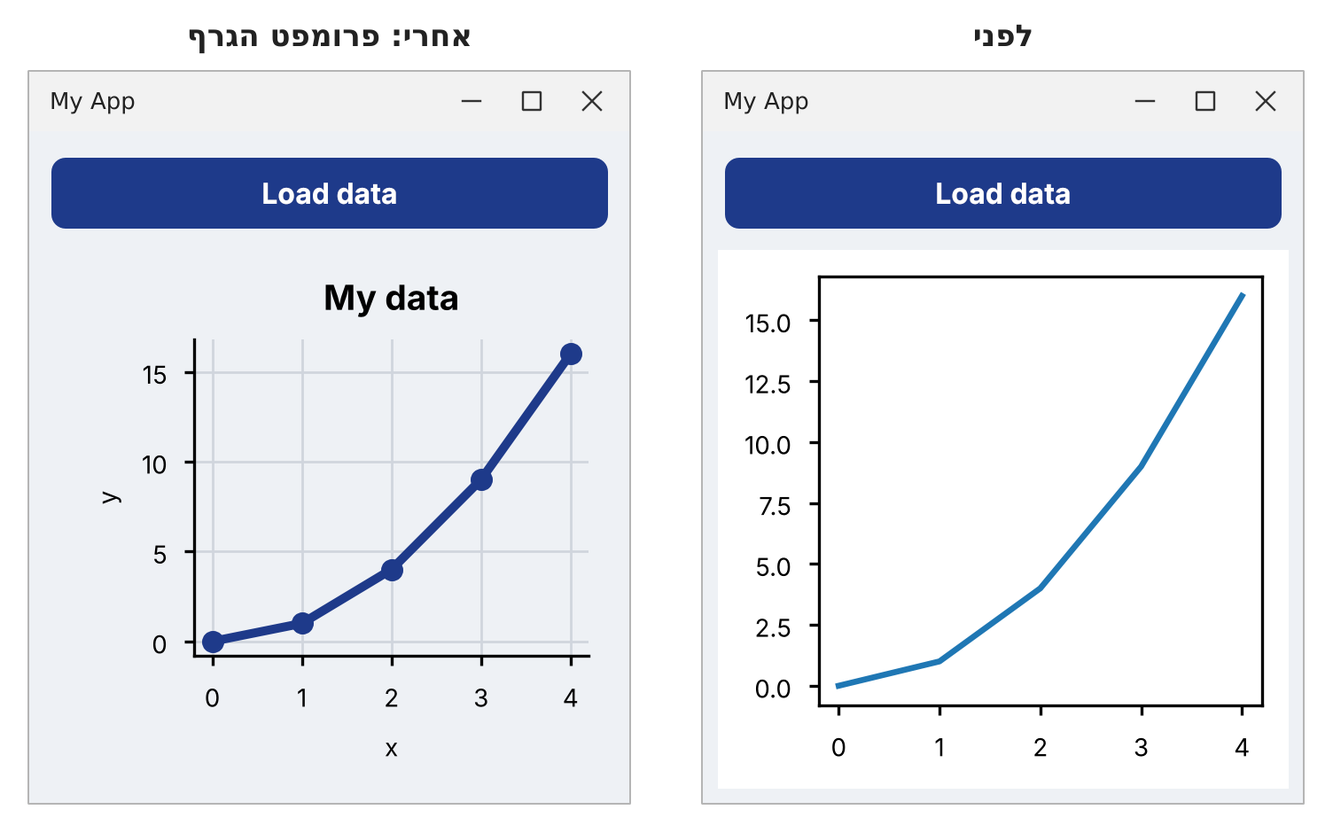
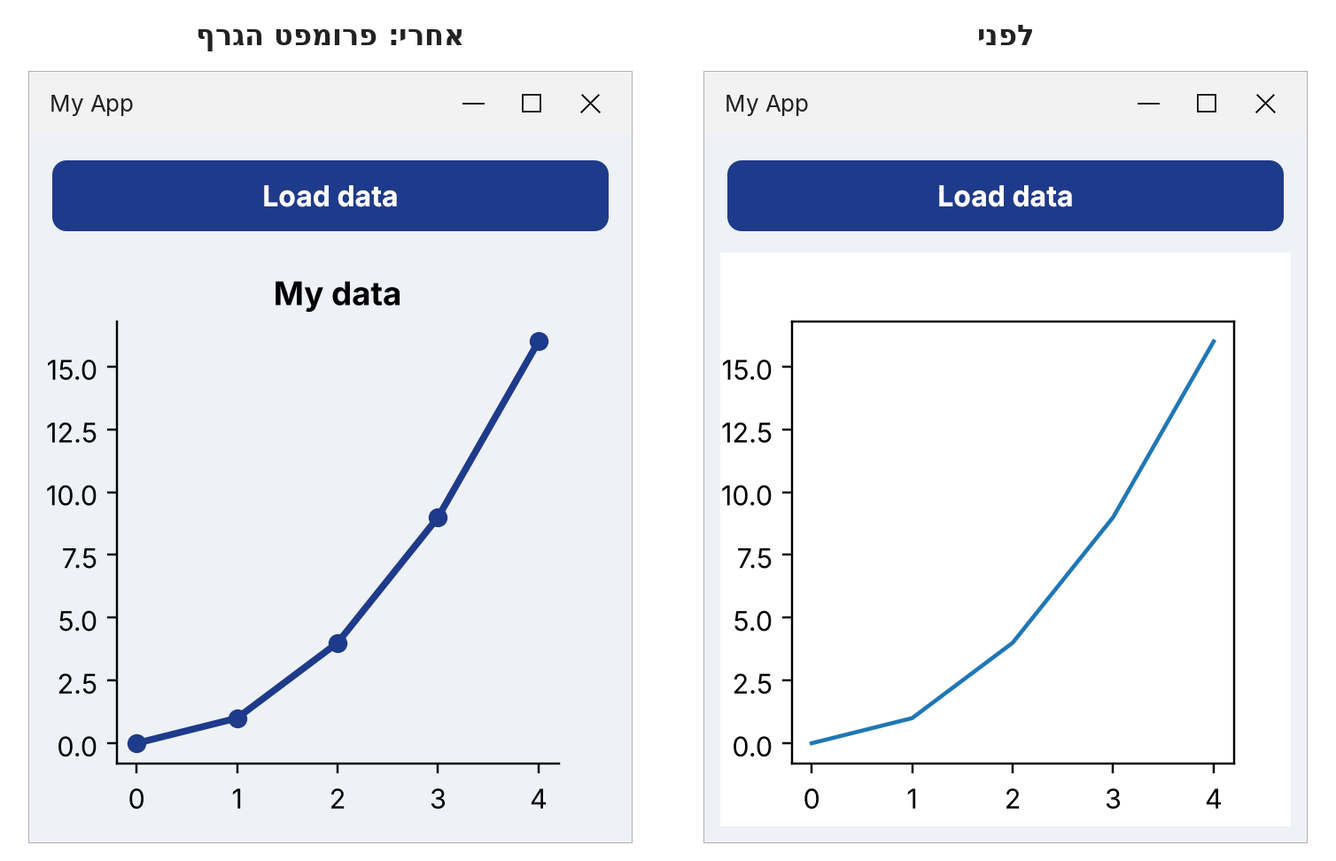
Starter GUI prompts: match code and screenshots to Tal's new prompts, sync Hebrew
- Graph prompt: new before/after screenshots without the grid (EN + HE)
- Layout/zoom/save prompt: new code (constrained layout, toolbar on the
  graph's top right) and new before/after screenshots (EN + HE)
- Remove the follow-up section's unused images
- Hebrew version updated to match the English text

Claude-Session: https://claude.ai/code/session_01TSvAdkGXUG1LZxQcRJdy9t

diff --git a/content/he/topics/good_prompts.md b/content/he/topics/good_prompts.md
@@ -33,22 +33,7 @@
 >
 > הוסף גם אזור בגודל 300 על 300 פיקסלים לפחות עם גרף matplotlib. צור מתודה בשם `draw_graph` שמציירת משהו פשוט על הגרף. אני אשנה אותה אחר כך.
 
-הפרומפט הזה לא מתאר אפליקציה גמורה. הוא מתאר **שלד**, שבנוי כמו ש*אתם* הייתם בונים אותו, עם כלים ש*אתם* כבר מכירים.
-
-## עוברים על הפרומפט
-
-כל משפט בפרומפט מקבל החלטה אחת, כדי שה-AI לא יצטרך לנחש.
-
-| מה הפרומפט אומר | מה זה נותן לכם |
-|---|---|
-| ״אפליקציית PySide6״ | ספרייה שלמדתם בכיתה. אתם יכולים לקרוא כל שורה. |
-| ״בקובץ חדש בשם `app.py`״ | אתם יודעים בדיוק איפה הקוד נמצא, והוא לא נוגע בקבצים האחרים שלכם. |
-| ״חלון ראשי, כתוב כמחלקה״ | המבנה שאנחנו משתמשים בו בקורס: ווידג'טים הם תכונות (`self.something`), ופעולות הן מתודות. |
-| ״קרא לכפתור `file_load_button`״ | כשתרצו לשנות את הכפתור, תחפשו את השם הזה. |
-| ״חבר אותו למתודה בשם `file_load_method`״ | אתם יודעים איפה נמצא הקוד שרץ בלחיצה. |
-| ״שמור את הבחירה ב-`self.filename`״ | כל מתודה אחרת במחלקה יכולה להשתמש בשם הקובץ אחר כך. |
-| ״300 על 300 פיקסלים לפחות עם גרף matplotlib״ | ספרייה שאתם מכירים, וגודל שאתם בחרתם. |
-| ״מתודה בשם `draw_graph`... אני אשנה אותה אחר כך״ | מקום ברור וריק לקוד הגרפים שלכם. ״אני אשנה אחר כך״ אומר ל-AI לשמור על פשטות. |
+הפרומפט הזה לא מתאר אפליקציה גמורה. הוא מתאר **שלד**, שבנוי כמו ש*אתם* הייתם בונים אותו, עם כלים ש*אתם* כבר מכירים. כל משפט בפרומפט מקבל החלטה, כדי שה-AI לא יצטרך לנחש.
 
 ## מה מקבלים בחזרה
 
@@ -125,20 +110,12 @@ if __name__ == "__main__":
 
 שימו לב שאפשר לכתוב פרומפט כזה רק אם כבר מכירים את הכלים. בגלל זה אנחנו לומדים קודם PySide6, matplotlib ומחלקות, ומשתמשים ב-AI כדי לחסוך הקלדה, לא מחשבה.
 
-## ה-AI בונה את הממשק, אתם כותבים את הלוגיקה
+## אחרי שה-AI עונה
 
-השתמשו בפרומפטים כאלה **לממשק המשתמש בלבד**: החלון, הווידג'טים, הסידור שלהם והחיבורים ביניהם. החלק הזה הוא בעיקר הקלדה, וה-AI מהיר בה.
-
-**הלוגיקה** שלכם: חישובים, קריאה וכתיבה של קבצים, עיבוד נתונים, הפיזיקה של סימולציה. בפרומפט התחלתי טוב, כל חלק של לוגיקה הופך ל**מתודה ריקה עם שם שאתם בחרתם**, שמחכה לקוד שלכם. זה בדיוק מה ש״אני אשנה אותה אחר כך״ עושה בפרומפט שלמעלה.
-
-## מה לכתוב בפרומפט התחלתי
-
-1. **הטכנולוגיות:** ספריית הממשק הגרפי וספריית הגרפים (PySide6, matplotlib).
-2. **הקובץ:** איזה קובץ ליצור.
-3. **המבנה:** חלון כמחלקה, איזה layout, מה נמצא איפה.
-4. **השמות:** של הווידג'טים, המתודות והמשתנים החשובים.
-5. **החיבורים:** איזה כפתור או signal קורא לאיזו מתודה.
-6. **המתודות הריקות:** כתבו אילו מתודות להשאיר ריקות (או עם `print`), כי את הלוגיקה תכתבו בעצמכם.
+1. **קראו את כל הקוד** לפני שאתם מריצים אותו. אם שורה לא ברורה, בקשו מה-AI להסביר אותה.
+2. **בדקו שהוא עשה מה שביקשתם:** שם הקובץ, השמות, המבנה. אם הוא הוסיף דברים שלא ביקשתם, בקשו ממנו להוריד אותם.
+3. **הריצו** וודאו שהשלד עובד.
+4. **בצעו commit** ב-git. עכשיו יש לכם נקודת התחלה נקייה לחזור אליה, ואפשר להתחיל להוסיף את הקוד שלכם.
 
 ## עוד דוגמאות לפרומפטים
 
@@ -167,13 +144,6 @@ if __name__ == "__main__":
 > Create a PySide6 app in a new file called `animation.py`, with a main window written as a class. Add a matplotlib graph of at least 400 by 400 pixels, and two buttons in a row under it: "Start" named `start_button` and "Stop" named `stop_button`. Create a `QTimer` named `timer` that calls a method called `step` every 50 milliseconds. `start_button` starts the timer and `stop_button` stops it. Leave `step` empty, I will write the movement myself.
 
 גרף, כפתורי ״Start״ ו-״Stop״, וטיימר שקורא ל-`step` כל 50 מילישניות. `step` נשארת ריקה, ואת התנועה אתם כותבים.
-
-## אחרי שה-AI עונה
-
-1. **קראו את כל הקוד** לפני שאתם מריצים אותו. אם שורה לא ברורה, בקשו מה-AI להסביר אותה.
-2. **בדקו שהוא עשה מה שביקשתם:** שם הקובץ, השמות, המבנה. אם הוא הוסיף דברים שלא ביקשתם, בקשו ממנו להוריד אותם.
-3. **הריצו** וודאו שהשלד עובד.
-4. **בצעו commit** ב-git. עכשיו יש לכם נקודת התחלה נקייה לחזור אליה, ואפשר להתחיל להוסיף את הקוד שלכם.
 
 ## השלב הבא: פרומפט לעיצוב
 
@@ -220,19 +190,19 @@ QPushButton:hover {
 }
 ```
 
-עכשיו תורכם: **פתחו את `style.qss` ושחקו איתו.** שנו צבע, עגלו יותר את הפינות, הגדילו את הגופן, הריצו שוב את האפליקציה וראו מה השתנה. הקובץ קצר וקל לקריאה, אז לא צריך עוד פרומפט על כל שינוי קטן. ה-AI נתן לכם נקודת התחלה, והמראה הסופי צריך להיות שלכם. טיפ: חפשו ״hex color picker״ כדי למצוא את הקוד של כל צבע שאתם אוהבים.
+עכשיו תורכם: **פתחו את `style.qss` ושחקו איתו.** שנו צבע, עגלו יותר את הפינות, הגדילו את הגופן, הריצו שוב את האפליקציה וראו מה השתנה. הקובץ קצר וקל לקריאה, אז לא צריך עוד פרומפט על כל שינוי קטן. ה-AI נתן לכם נקודת התחלה, והמראה הסופי צריך להיות שלכם.
 
-עוד דברים שאפשר לבקש: ערכת נושא כהה, גופן מסוים, צבע בולט לכפתור חשוב אחד (תנו לו שם עם `setObjectName` ועצבו אותו עם `#name`), או מסגרת סביב אזור הגרף.
+עוד דברים שאפשר לבקש: ערכת נושא כהה, גופן מסוים, צבע בולט לכפתור חשוב אחד, או מסגרת סביב אזור הגרף.
 
 ״אל תשנה שום דבר אחר בקוד ה-Python״ זה משפט חשוב. בדקו ב-git שה-AI עמד בזה: השינויים צריכים להיות הקובץ החדש `style.qss`, השורה או שתיים שטוענות אותו, ואולי כמה קריאות ל-`setObjectName`. אם התוצאה לא מוצאת חן בעיניכם, בטלו את השינויים ונסו פרומפט אחר. אם היא מוצאת חן, בצעו commit.
 
 ### לגרום לגרף להיראות טוב
 
-קובץ ה-QSS מעצב את החלון, אבל לא את הגרף: את הגרף matplotlib מצייר בעצמו. לכן הגרף מקבל פרומפט משלו. כאן לא צריך את המילים הטכניות. תארו במילים פשוטות מה אתם רוצים לראות:
+קובץ ה-QSS מעצב את החלון, אבל לא את הגרף: את הגרף matplotlib מצייר בעצמו. לכן הגרף מקבל פרומפט משלו. כאן לא צריך את המילים הטכניות. תארו במילים פשוטות מה אתם רוצים לראות. למשל:
 
-> Make the graph in `draw_graph` look nicer. Remove the lines on the top and right sides of the graph, add a title and a name for each axis, add a light grid in the background, make the line thicker and dark blue with a dot on every point, and make the background of the graph the same light gray as the window. Only change `draw_graph`.
+> Make the graph in `draw_graph` look nicer. Remove the lines on the top and right sides of the graph, add a title and a name for each axis, make the line thicker and dark blue with a dot on every point, and make the background of the graph the same light gray as the window. Keep the grid off. Only change `draw_graph`.
 
-(״תגרום לגרף ב-`draw_graph` להיראות יותר טוב. תוריד את הקווים בצד העליון והימני של הגרף, תוסיף כותרת ושם לכל ציר, תוסיף רשת בהירה ברקע, תעשה את הקו עבה יותר וכחול כהה עם נקודה על כל נקודת נתונים, ותעשה את הרקע של הגרף באותו אפור בהיר כמו החלון. תשנה רק את `draw_graph`.״)
+(״תגרום לגרף ב-`draw_graph` להיראות יותר טוב. תוריד את הקווים בצד העליון והימני של הגרף, תוסיף כותרת ושם לכל ציר, תעשה את הקו עבה יותר וכחול כהה עם נקודה על כל נקודת נתונים, ותעשה את הרקע של הגרף באותו אפור בהיר כמו החלון. תשאיר את הרשת כבויה. תשנה רק את `draw_graph`.״)
 
 ![החלון המעוצב לפני פרומפט הגרף, ואחריו](content/images/prompt_graph_before_after_he.png)
 
@@ -245,7 +215,6 @@ def draw_graph(self):
     self.ax.set_facecolor("#eef1f5")
     self.ax.spines["top"].set_visible(False)
     self.ax.spines["right"].set_visible(False)
-    self.ax.grid(True, color="#d0d5dd")
     self.ax.set_axisbelow(True)
     self.ax.plot([0, 1, 2, 3, 4], [0, 1, 4, 9, 16],
                  color="#1e3a8a", linewidth=2.5, marker="o")
@@ -255,21 +224,23 @@ def draw_graph(self):
     self.canvas.draw()
 ```
 
-עכשיו קראו את הקוד. ״הקווים בצד העליון והימני״ נקראים ב-matplotlib **spines**, ועכשיו למדתם איך להסתיר אותם. בפעם הבאה תוכלו לעשות את זה לבד, בלי פרומפט. כשתחליפו את נתוני הדוגמה בנתונים שלכם, השאירו את שורות העיצוב ושנו רק את שורת ה-`plot` ואת הכותרות.
+עכשיו קראו את הקוד. יש דברים שקל מאוד לעשות ברגע שיודעים איך. עכשיו אתם יכולים לשנות את הערכים בעצמכם כדי לקבל את המראה שאתם רוצים.
 
 ### זום ושמירה של הגרף
 
-עכשיו נאפשר למשתמש לעשות זום ולשמור את הגרף כתמונה. ל-matplotlib כבר יש סרגל כלים (toolbar) שעושה את זה, אז בקשו אותו בשמו, ובקשו שיעוצב כמו שאר האפליקציה:
+אזור הגרף עדיין לא נראה כל כך טוב, כי הגרף לא מנצל נכון את המקום שמסביבו. בנוסף, אנחנו רוצים להוסיף אפשרות לזום ולשמירת הגרף כתמונה. נכתוב לזה פרומפט המשך.
 
-> Add a small toolbar above the graph with only two buttons: one to zoom in and one to save the graph as an image. Use matplotlib's ready-made toolbar, but keep only those two buttons and hide the mouse coordinates. Style it to match the rest of the app by adding rules to `style.qss`: the same background as the window, white rounded buttons, and a light blue background when the mouse is over a button or when a button is on. Don't change `draw_graph`.
+> Make the graph occupy the entire width of the window but ensure that the y axis title is fully visible, and go up until it is almost at the "Load Data" button. Add an option for zooming and for saving the graph as an image, with only two buttons and place them so they line up with the main title, on the right side of the graph. Style it to match the rest of the app using `style.qss`. Don't change `draw_graph`.
 
-(״הוסף סרגל כלים קטן מעל הגרף עם שני כפתורים בלבד: אחד לזום ואחד לשמירת הגרף כתמונה. השתמש בסרגל הכלים המוכן של matplotlib, אבל השאר רק את שני הכפתורים האלה והסתר את הקואורדינטות של העכבר. עצב אותו כך שיתאים לשאר האפליקציה בעזרת כללים חדשים ב-`style.qss`: אותו רקע כמו החלון, כפתורים לבנים ומעוגלים, ורקע תכלת כשהעכבר מעל כפתור או כשכפתור פעיל. אל תשנה את `draw_graph`.״)
+(״תגרום לגרף לתפוס את כל רוחב החלון, אבל תוודא שהשם של ציר ה-y נראה במלואו, ותעלה אותו עד שהוא כמעט מגיע לכפתור ״Load Data״. תוסיף אפשרות לזום ולשמירת הגרף כתמונה, עם שני כפתורים בלבד, ותמקם אותם כך שיהיו בשורה אחת עם הכותרת הראשית, בצד הימני של הגרף. תעצב אותם כך שיתאימו לשאר האפליקציה בעזרת `style.qss`. אל תשנה את `draw_graph`.״)
 
-![האפליקציה לפני פרומפט סרגל הכלים, ואחריו](content/images/prompt_toolbar_before_after_he.png)
+![האפליקציה לפני הפרומפט, ואחריו](content/images/prompt_toolbar_before_after_he.png)
 
-השינוי ב-Python קטן: מחלקה קטנה מעל `MainWindow` שמשאירה רק שניים מהכפתורים של סרגל הכלים, ושתי שורות ב-`__init__` שיוצרות את סרגל הכלים ומכניסות אותו ל-layout:
+השינוי ב-Python קטן. מחלקה קטנה מעל `MainWindow` משאירה רק שניים מהכפתורים של סרגל הכלים (toolbar):
 
 ```python
+from PySide6.QtCore import Qt
+from PySide6.QtWidgets import QGridLayout
 from matplotlib.backends.backend_qtagg import NavigationToolbar2QT
 
 
@@ -278,10 +249,22 @@ class GraphToolbar(NavigationToolbar2QT):
     toolitems = [t for t in NavigationToolbar2QT.toolitems if t[0] in ("Zoom", "Save")]
 ```
 
+ובנוסף משתנות כמה שורות ב-`__init__`. הגרף מסדר את עצמו כך שימלא את השטח שלו, וסרגל הכלים יושב מעל הגרף, בפינה הימנית העליונה שלו:
+
+```python
+        self.figure = Figure(layout="constrained")    # was: Figure()
+```
+
 ```python
         self.toolbar = GraphToolbar(self.canvas, self, coordinates=False)
-        layout.addWidget(self.toolbar)    # just before layout.addWidget(self.canvas)
+        graph_area = QGridLayout()
+        graph_area.addWidget(self.canvas, 0, 0)
+        graph_area.addWidget(self.toolbar, 0, 0, Qt.AlignTop | Qt.AlignRight)
+        layout.addLayout(graph_area)    # was: layout.addWidget(self.canvas)
+        layout.setSpacing(0)            # less space between the button and the graph
 ```
+
+`layout="constrained"` אומר ל-matplotlib להגדיל את הגרף כמה שאפשר, ועדיין להשאיר מקום לכותרת ולשמות הצירים. כשמכניסים את ה-canvas ואת סרגל הכלים לאותו תא ב-`QGridLayout`, אחד מהם יושב מעל השני.
 
 מה עושים שני הכפתורים:
 
@@ -289,29 +272,3 @@ class GraphToolbar(NavigationToolbar2QT):
 - **Save** (הדיסקט): שומר את הגרף כקובץ PNG, JPG, PDF או SVG.
 
 לסרגל הכלים של matplotlib יש עוד כפתורים: Home (חזרה לתצוגה המלאה), Back, Forward, Pan (הזזת הגרף) ועוד כמה הגדרות. רוצים גם אחד מהם? הוסיפו את השם שלו לרשימה ב-`GraphToolbar`, למשל `("Home", "Zoom", "Save")`. רוצים לשנות את המראה? שנו את הצבעים ב-`style.qss`, בדיוק כמו קודם.
-
-### פרומפט המשך: לתקן את מה שלא מוצא חן
-
-הסתכלו על התוצאה בעין ביקורתית. אחרי שהוספנו את סרגל הכלים, יש לגרף יותר מדי מקום ריק משמאל ומעליו, והכפתורים ייראו טוב יותר בצד ימין. לא צריך להתחיל מההתחלה, ולא צריך לדעת את המילים הנכונות. פשוט תגידו מה מפריע לכם:
-
-> There is too much empty space between the graph and the left side of the window, and a bit too much above the title. Make the graph fill more of its area. Also, move the zoom and save buttons to the right side, aligned to the right.
-
-(״יש יותר מדי מקום ריק בין הגרף לצד השמאלי של החלון, וקצת יותר מדי מעל הכותרת. תגרום לגרף למלא יותר מהשטח שלו. בנוסף, תעביר את כפתורי הזום והשמירה לצד הימני, מיושרים לימין.״)
-
-![האפליקציה לפני פרומפט ההמשך, ואחריו](content/images/prompt_fix_before_after_he.png)
-
-ה-AI הוסיף שורה אחת ל-`draw_graph`, ושינה את השורה ב-`__init__` שמכניסה את סרגל הכלים ל-layout:
-
-```python
-        self.figure.tight_layout(pad=0.3)    # in draw_graph, just before self.canvas.draw()
-```
-
-```python
-from PySide6.QtCore import Qt
-```
-
-```python
-        layout.addWidget(self.toolbar, alignment=Qt.AlignRight)    # in __init__, instead of layout.addWidget(self.toolbar)
-```
-
-`pad` הוא המרווח מסביב לגרף. נסו בעצמכם ערכים אחרים וראו מה נראה לכם הכי טוב.

diff --git a/content/topics/good_prompts.md b/content/topics/good_prompts.md
@@ -205,15 +205,17 @@ Now read the code. Some things are very easy to do once you know how. You can no
 
 ### Zoom and save the graph
 
-The graph area still doesn't look that good as it does not occupy the space around it properly. Also we want to add an option for zooming and saving the graph as an image. we'll write a follow-up prompt for that.
+The graph area still doesn't look that good as it does not occupy the space around it properly. Also we want to add an option for zooming and saving the graph as an image. We'll write a follow-up prompt for that.
 
-> Make the graph occupy the entire width of the window but ensure that the y axis title is fully visible, and go up until it almost at the "Load Data" button. Add an option for zooming and for saving the graph as an image, with only two buttons and place them so they line up with the main title, on the right side of the graph. Style it to match the rest of the app using `style.qss`. Don't change `draw_graph`.
+> Make the graph occupy the entire width of the window but ensure that the y axis title is fully visible, and go up until it is almost at the "Load Data" button. Add an option for zooming and for saving the graph as an image, with only two buttons and place them so they line up with the main title, on the right side of the graph. Style it to match the rest of the app using `style.qss`. Don't change `draw_graph`.
 
 ![The app before the toolbar prompt, and after it](content/images/prompt_toolbar_before_after.png)
 
-The Python change is small: a tiny class above `MainWindow` that keeps only two of the toolbar's buttons, and two lines in `__init__` that create the toolbar and put it in the layout.
+The Python change is small. A tiny class above `MainWindow` keeps only two of the toolbar's buttons:
 
 ```python
+from PySide6.QtCore import Qt
+from PySide6.QtWidgets import QGridLayout
 from matplotlib.backends.backend_qtagg import NavigationToolbar2QT
 
 
@@ -222,10 +224,22 @@ class GraphToolbar(NavigationToolbar2QT):
     toolitems = [t for t in NavigationToolbar2QT.toolitems if t[0] in ("Zoom", "Save")]
 ```
 
+And a few lines in `__init__` change. The figure now arranges itself to fill its area, and the toolbar sits on top of the graph, in its top right corner:
+
+```python
+        self.figure = Figure(layout="constrained")    # was: Figure()
+```
+
 ```python
         self.toolbar = GraphToolbar(self.canvas, self, coordinates=False)
-        layout.addWidget(self.toolbar)    # just before layout.addWidget(self.canvas)
+        graph_area = QGridLayout()
+        graph_area.addWidget(self.canvas, 0, 0)
+        graph_area.addWidget(self.toolbar, 0, 0, Qt.AlignTop | Qt.AlignRight)
+        layout.addLayout(graph_area)    # was: layout.addWidget(self.canvas)
+        layout.setSpacing(0)            # less space between the button and the graph
 ```
+
+`layout="constrained"` tells matplotlib to make the graph as big as it can, while keeping room for the title and the axis names. Putting the canvas and the toolbar in the same cell of a `QGridLayout` places one on top of the other.
 
 What the two buttons do:
 
